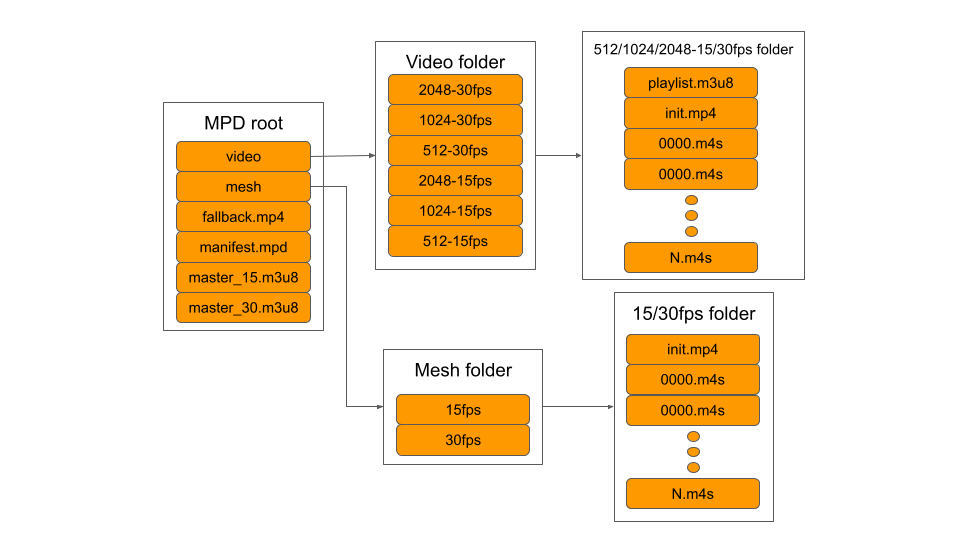
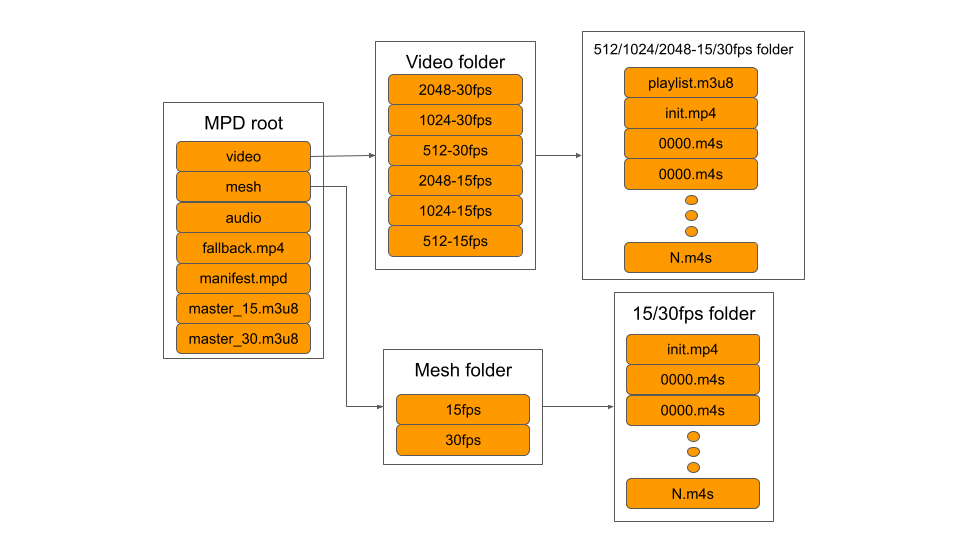
some fixes

Changed region(s): [[0.1562, 0.3852, 0.3438, 0.6815]]

diff --git a/docs/source/Components/Mpd.rst b/docs/source/Components/Mpd.rst
@@ -8,10 +8,11 @@ MPD structure
 
 * video - Folder that contains all texture data
 * mesh - Folder that contains all mesh data
+* audio - Folder that contains all the audio data
 * manifest.mpd - MPEG-DASH manifest file describing the video/audio/mesh representation available for this asset
 * fallback.mp4 - video and audio mp4 that is used if the platform does not support MPEG-DASH or HLS
-* master_15.m3u8 - Manifest file for HLS streaming for 15 FPS variant of the asset
-* master_30.m3u8 - Manifest file for HLS streaming for the 30 FPS variant of the asset
-* init.mp4 - the init segment of the chunked video data
-* *.m4s - chunks of the video data
+* master_15.m3u8 - Manifest file for HLS streaming for 15 FPS variant of the texture data
+* master_30.m3u8 - Manifest file for HLS streaming for the 30 FPS variant of the texture data
+* init.mp4 - the init segment of the chunked data
+* *.m4s - chunks of the video/mesh data
 * playlist.m3u8 - per representation HLS file describing the init file and chunks
